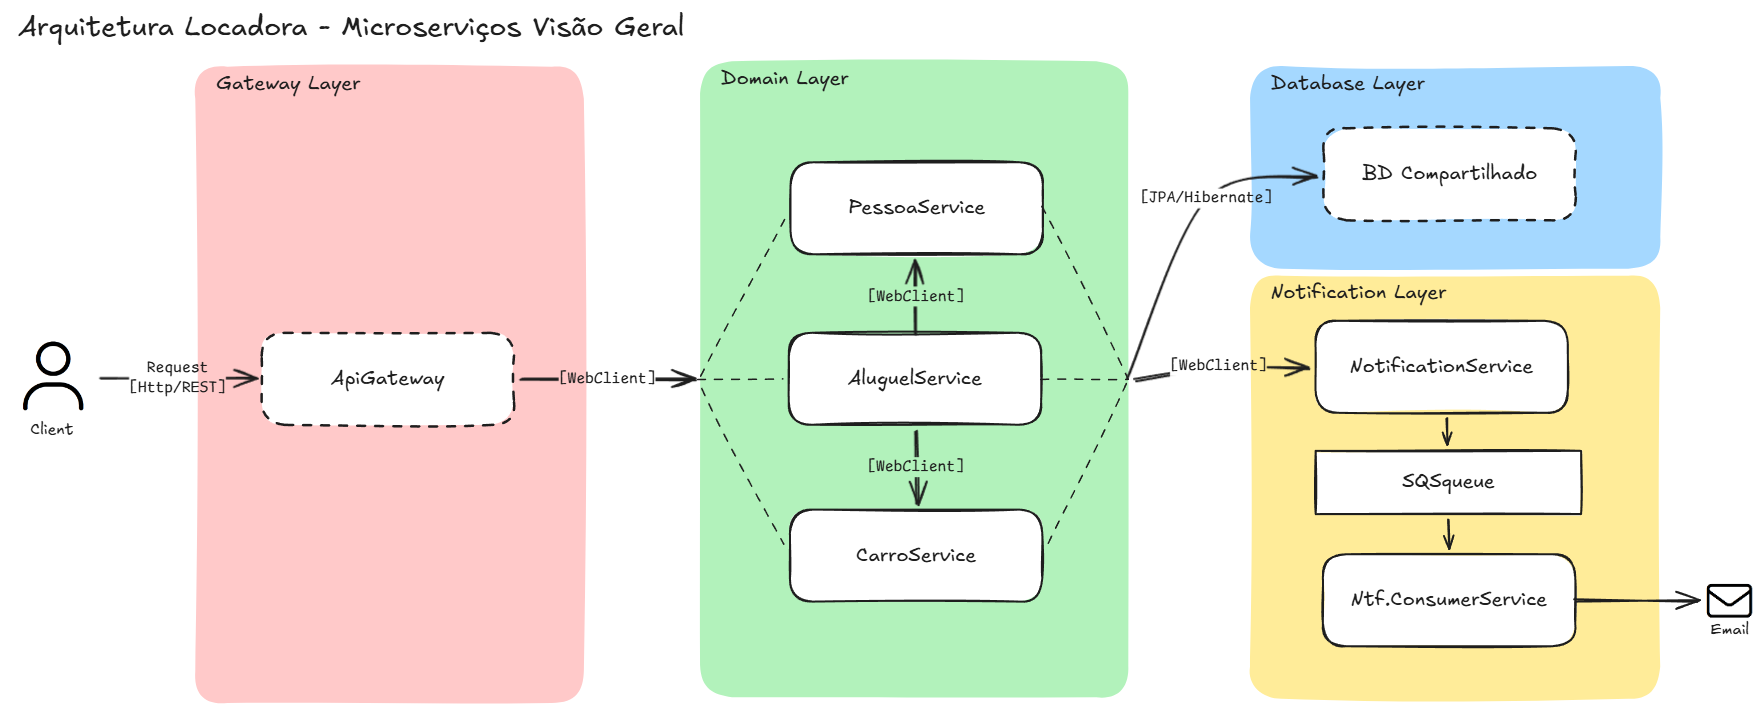
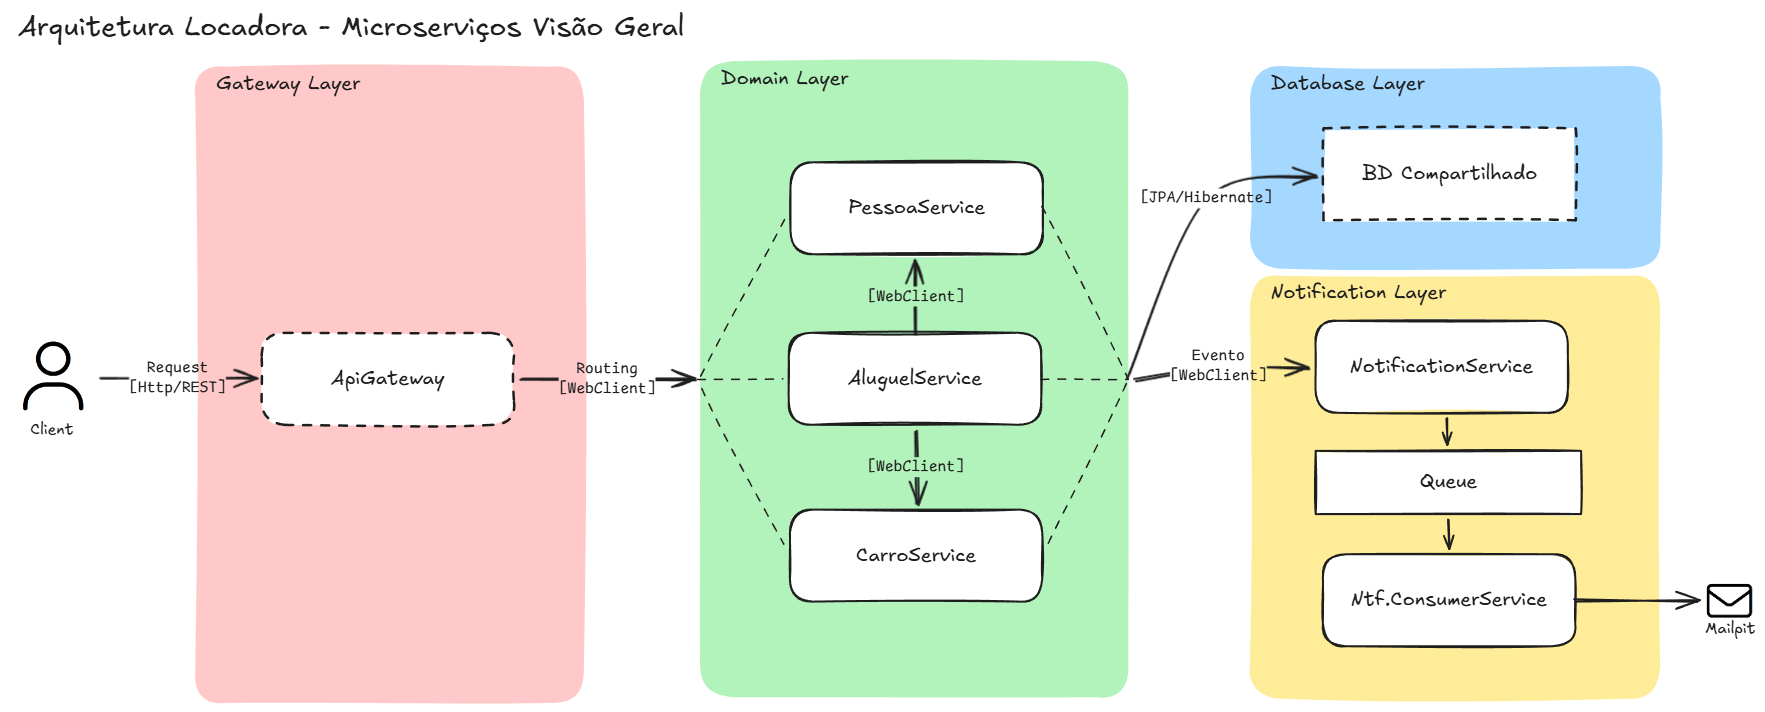
docs: documenta adr 005 - cria adr 005 sobre arquitetura de camadas dos serviços de domínio - ajuste diagrama arquitetura microserviços v2

diff --git a/docs/adr/adr-005-estrutura-servicos-dominio.md b/docs/adr/adr-005-estrutura-servicos-dominio.md
@@ -1,0 +1,90 @@
+# ADR-005 – Estrutura padrão dos microserviços de domínio
+
+## Status
+Aceita
+
+## Contexto
+Foi necessário definir uma estrutura padrão para os microserviços de domínio com o objetivo de garantir consistência entre serviços, organização do código e separação clara de responsabilidades.
+
+A arquitetura deveria evitar acoplamento entre camadas, garantir previsibilidade para o time e seguir um modelo amplamente adotado no mercado, sem introduzir complexidade excessiva.
+
+## Decisão
+Foi definida uma estrutura baseada em camadas obrigatórias para todos os microserviços de domínio:
+
+
+### Estrutura de diretórios
+
+```plaintext
+src/main/java/com/cursopcv/<nome>-service/
+├── controller/
+│   ├── <nome>Controller.java
+│   └── <nome>ControllerSwagger.java
+│
+├── dto/
+│   ├── request/
+│   │   └── <nome>RequestDTO.java
+│   └── response/
+│       └── <nome>ResponseDTO.java
+│
+├── mapper/
+│   └── <nome>Mapper.java
+│
+├── exception/
+│   ├── CustomException.java
+│   └── GlobalExceptionHandler.java
+│
+├── model/
+│   └── <nome>.java
+│
+├── repository/
+│   └── <nome>Repository.java
+│
+└── service/
+    ├── <nome>Service.java
+    └── <nome>ServiceImpl.java
+```
+
+### controller
+- Responsável por receber requisições HTTP.
+- Não possui lógica de negócio.
+- Trabalha exclusivamente com DTOs.
+- Utiliza interfaces separadas para definição da documentação Swagger.
+
+### dto (record)
+- Utilizado para entrada (`request`) e saída (`response`) de dados.
+- DTOs são sempre definidos como `record`.
+- DTOs não expõem diretamente as entidades de domínio.
+
+### mapper
+- Responsável pela conversão entre DTOs e entidades.
+- Implementado via métodos estáticos.
+- Utilizado exclusivamente pelo controller.
+- Garante que o controller não dependa diretamente do model.
+
+### service
+- Responsável por toda a lógica de negócio.
+- Define um contrato via interface (`service interface`) e uma implementação (`service impl`).
+- Opera exclusivamente com entidades de domínio (model).
+- Não possui conhecimento sobre DTOs.
+
+### repository
+- Responsável pela persistência de dados.
+- Utiliza JPA/Hibernate.
+
+### model
+- Representa as entidades de domínio.
+- Utilizado apenas pelas camadas internas (service e repository).
+
+### exception
+- Contém o tratamento global de exceções (`GlobalExceptionHandler`).
+- Pode incluir exceções customizadas para regras de negócio.
+
+
+
+## Consequências
+- Separação clara entre API (DTO) e domínio (Model).
+- Redução de acoplamento entre camadas.
+- Padronização obrigatória entre todos os microserviços.
+- Aumento de quantidade de código devido à necessidade de mapper e interfaces.
+- Maior previsibilidade e organização, facilitando manutenção e evolução.
+- Arquitetura baseada em camadas (Layered Architecture), amplamente utilizada no mercado.